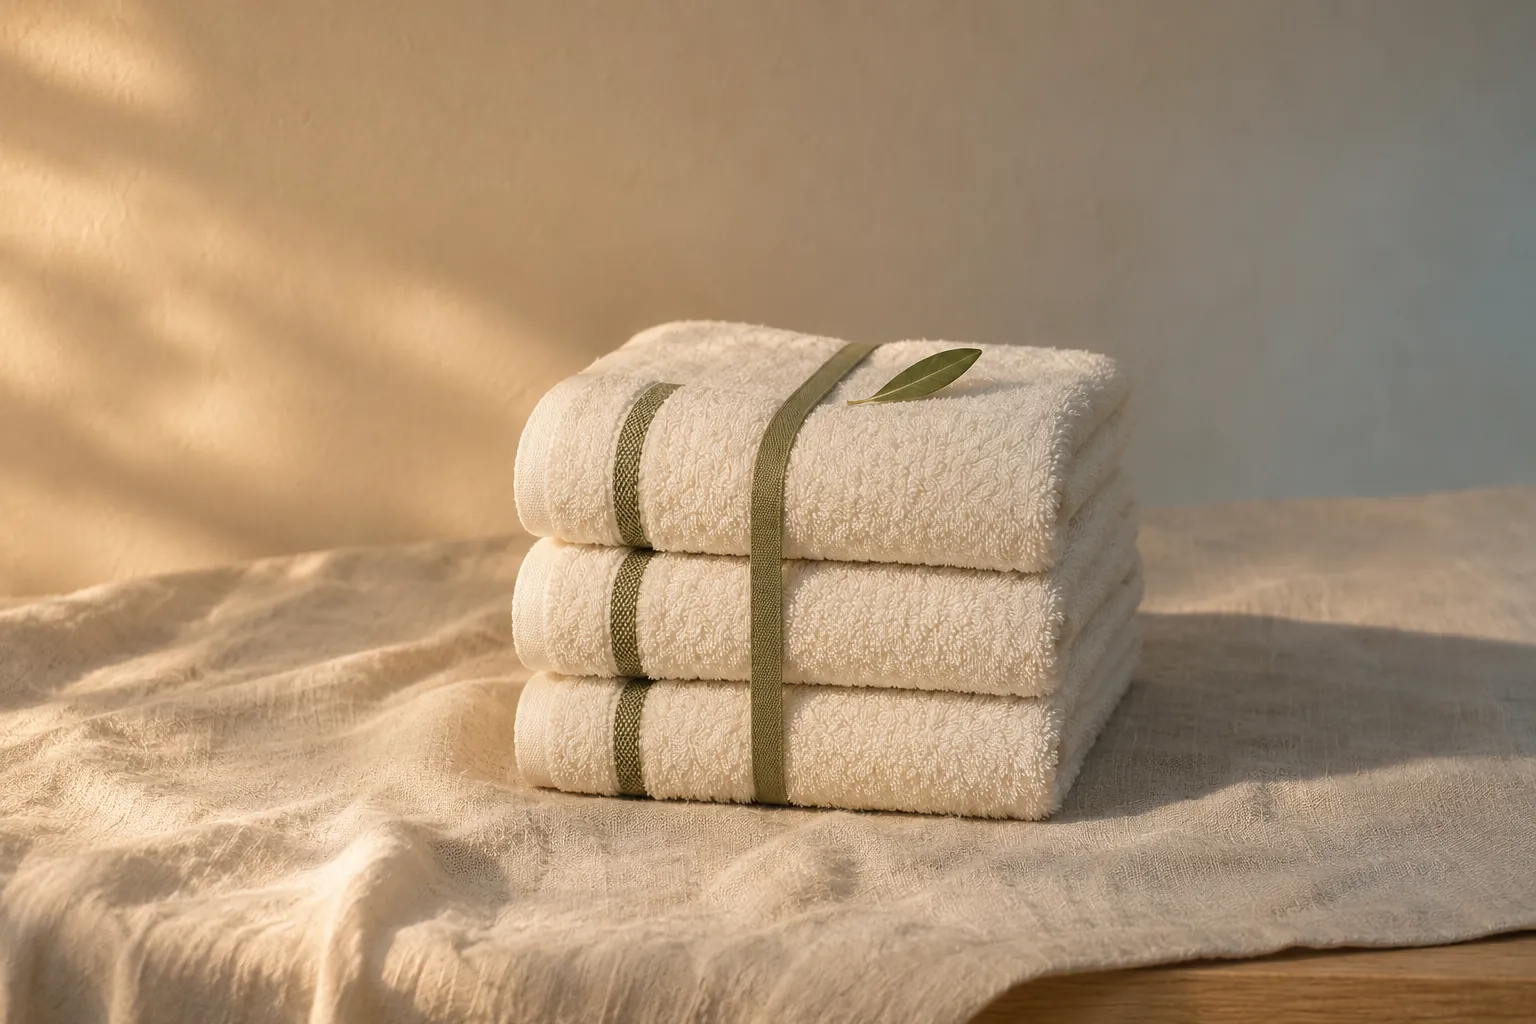
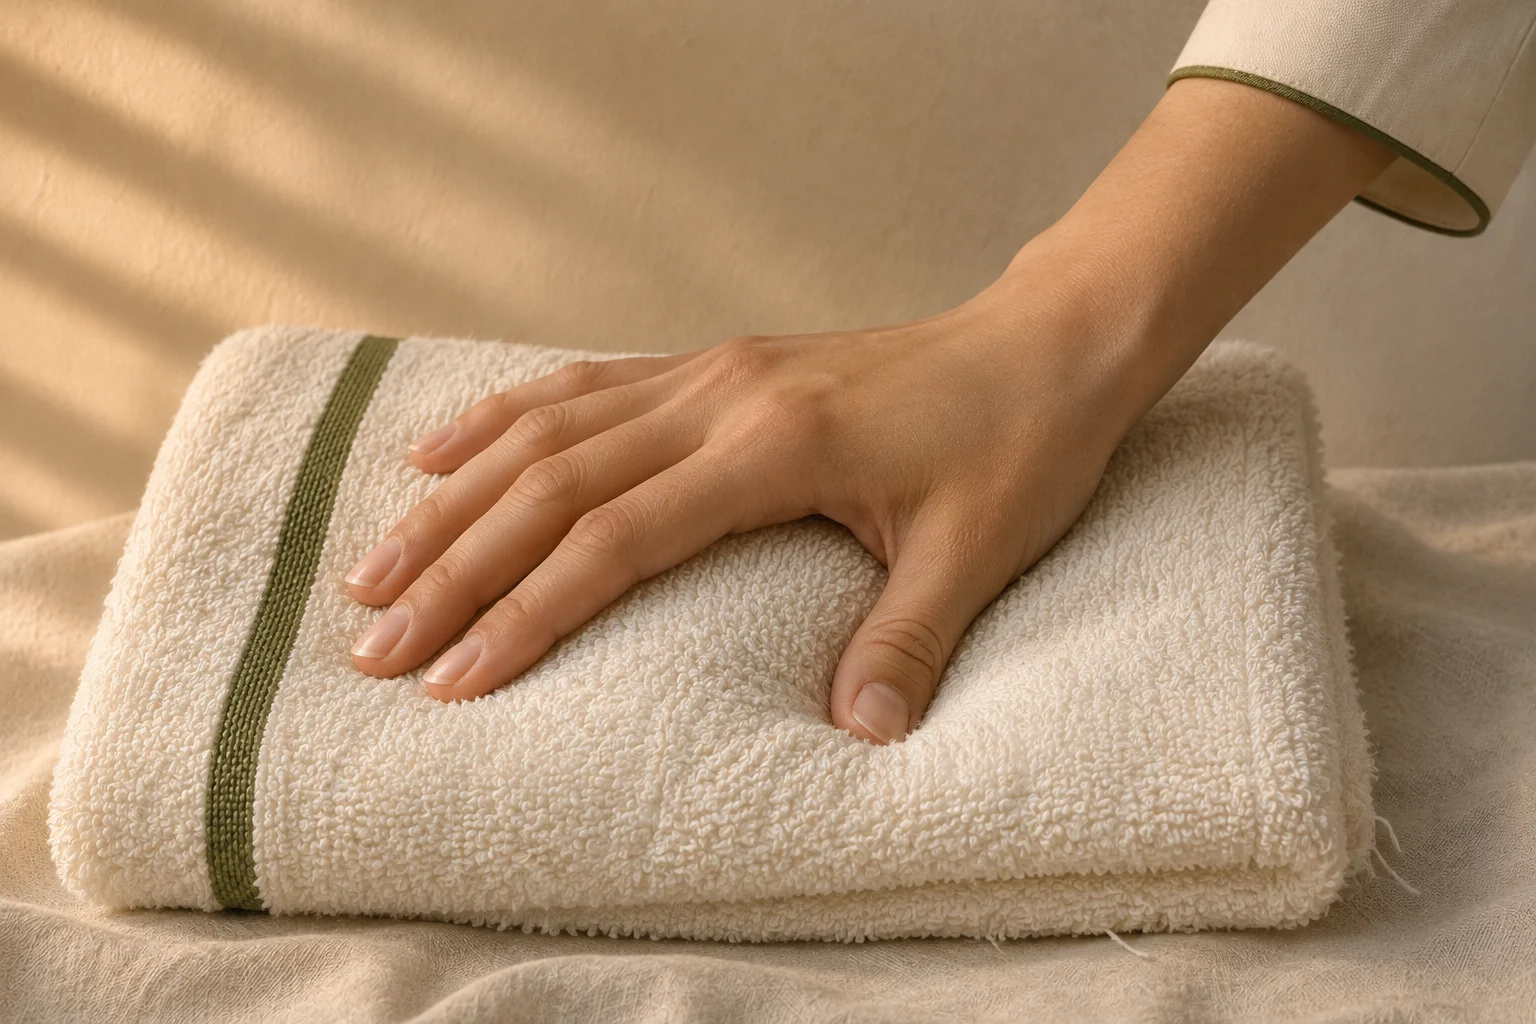
fix(服务项目/图集): 指压换成一只年轻的手大拇指按毛巾、不用油（原来是一叠用布带系着的毛巾，看不出是指压）
老板 11-11「指压那张也换了」。Codex 出横版四张，挑五指齐、大拇指在右手对的一侧、袖口连得上的那张；服务项目页和图集用同一张；七种语言图片说明跟着换。

diff --git a/src/app/[locale]/gallery/page.jsx b/src/app/[locale]/gallery/page.jsx
@@ -7,7 +7,7 @@ import { alternatesFor } from '@/i18n/routing';
 // 相册页（建站模版 serinity 有这一页；2026-11-10 老板「不要删减页面」，用我们自己的图放回来）。
 // 11-11 老板「图集里面的内容有点 不对吧」→「执行」：以前九张里五张都是深绿包加毛巾、一个人都没有、泰式配了草药球、少了瑞典和深层、标题手机上看不到。现在分两组：
 // 一、上门是什么样子：技师 Mia 到家门口 / 在公寓 / 到酒店房门口（Mia 定稿照和开场片原片截帧，房间看得出来），搓热精油，加两张静物（用品一包带齐、夜里的酒店）。
-// 二、按摩项目：后台六个项目各一张，名字跟服务项目页同一份翻译（serviceNames）；泰式干推是地垫不用油，指压是大拇指按、不用油。
+// 二、按摩项目：后台六个项目各一张，图和名字都跟服务项目页同一份（svc-*、serviceNames）；泰式干推是地垫不用油，指压是一只手大拇指按毛巾、不用油（老板「指压那张也换了」）。
 // pos：图片在 4:3 框里往哪边对齐，保证人和东西不被裁掉。
 const VISIT = [
   { key: 'home', src: '/global/photos/gal-home.webp', pos: 'object-[75%_50%]' },
@@ -22,7 +22,7 @@ const TREATMENTS = [
   { key: 'swedish', name: 'Swedish Massage', src: '/global/photos/svc-swedish.webp' },
   { key: 'deep', name: 'Deep tissue', src: '/global/photos/svc-deep.webp' },
   { key: 'thai', name: 'Thai Body Massage', src: '/global/photos/svc-thai.webp' },
-  { key: 'shiatsu', name: 'Shiatsu Massage(without Oil)', src: '/global/photos/need-pressure.webp', pos: 'object-[50%_25%]' },
+  { key: 'shiatsu', name: 'Shiatsu Massage(without Oil)', src: '/global/photos/svc-shiatsu.webp' },
   { key: 'stone', name: 'Hot Stone Massage', src: '/global/photos/svc-stone.webp' },
   { key: 'aroma', name: 'Relaxing Premium Aromatherapy Body Massage', src: '/global/photos/svc-aroma.webp' },
 ];
